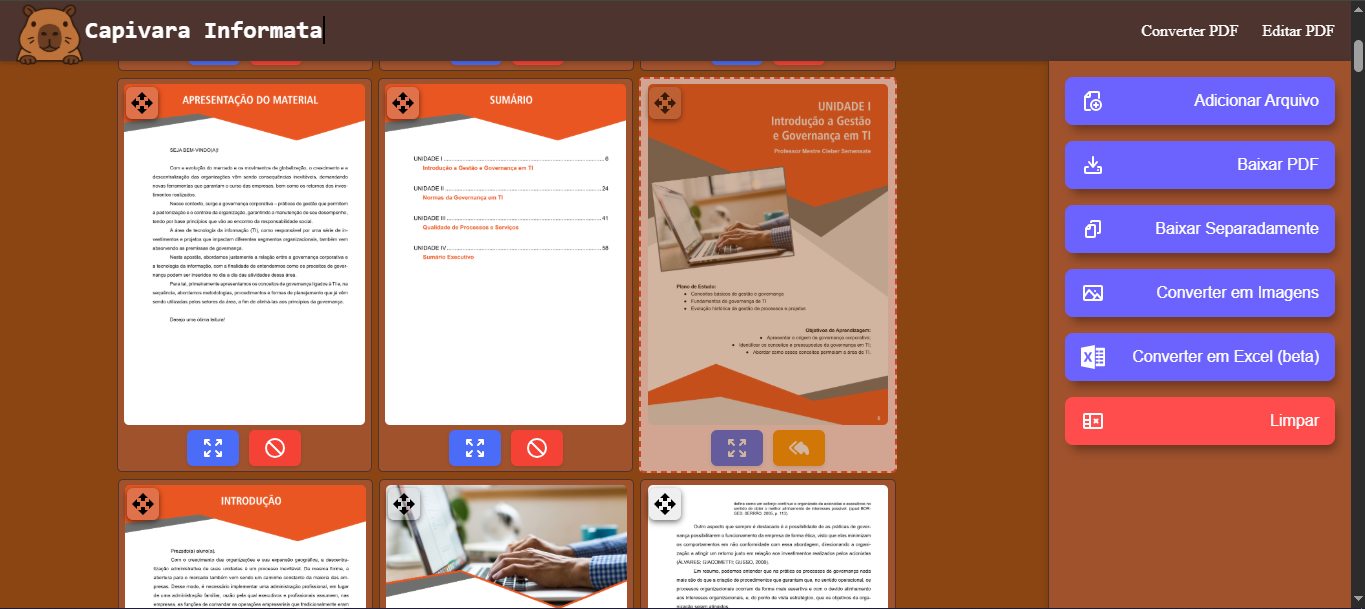
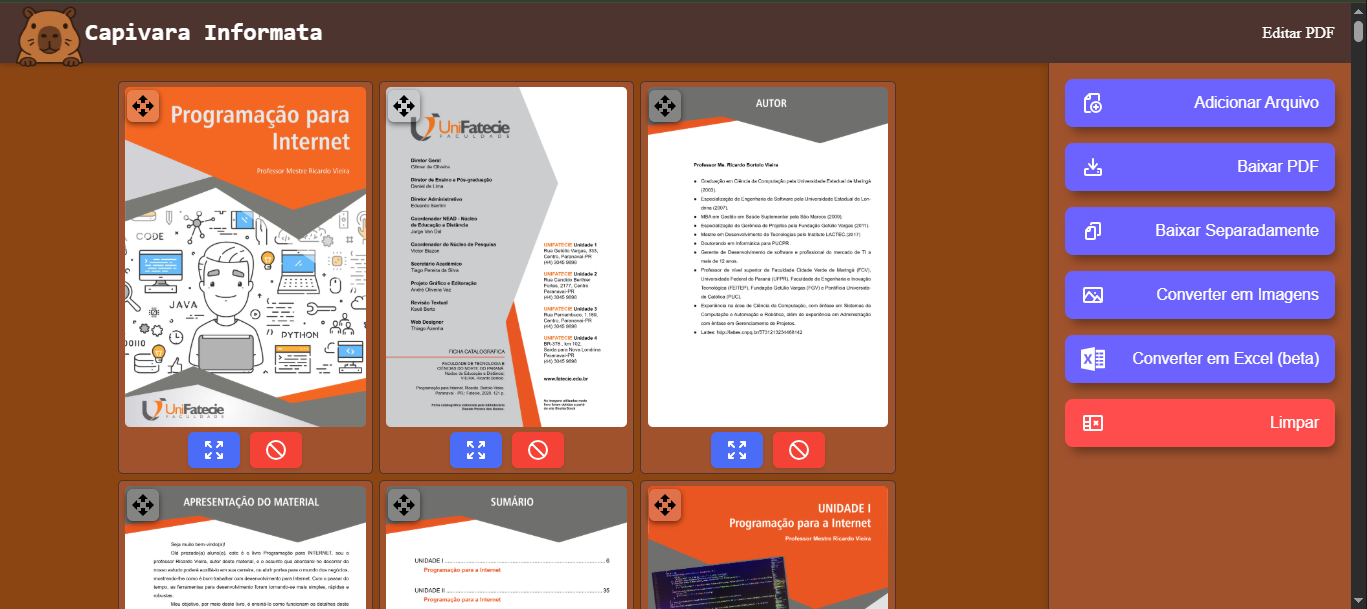
up

diff --git a/src/app/app.routes.ts b/src/app/app.routes.ts
@@ -4,6 +4,6 @@ import { PdfConvertComponent } from './pages/pdf-convert/pdf-convert.component';
 export const routes: Routes = [
     {path: '', redirectTo: 'page-pdf', pathMatch: 'full'},
     {path: 'page-pdf', component: PagePdfComponent},
-    {path: 'page-pdf-convert', component: PdfConvertComponent},
+    // {path: 'page-pdf-convert', component: PdfConvertComponent},
     {path:'**', redirectTo: 'home', pathMatch: 'full'},
 ];

diff --git a/src/app/component/NavMenu/NavMenu.component.html b/src/app/component/NavMenu/NavMenu.component.html
@@ -12,7 +12,7 @@
   </div>
 
   <ul class="menu" [class.active]="isMenuOpen">
-    <li><a routerLink="page-pdf-convert" (click)="closeMenu()">Converter PDF</a></li>
+    <!-- <li><a routerLink="page-pdf-convert" (click)="closeMenu()">Converter PDF</a></li> -->
     <li>
       <a routerLink="page-pdf" (click)="closeMenu()">Editar PDF</a>
     </li>
